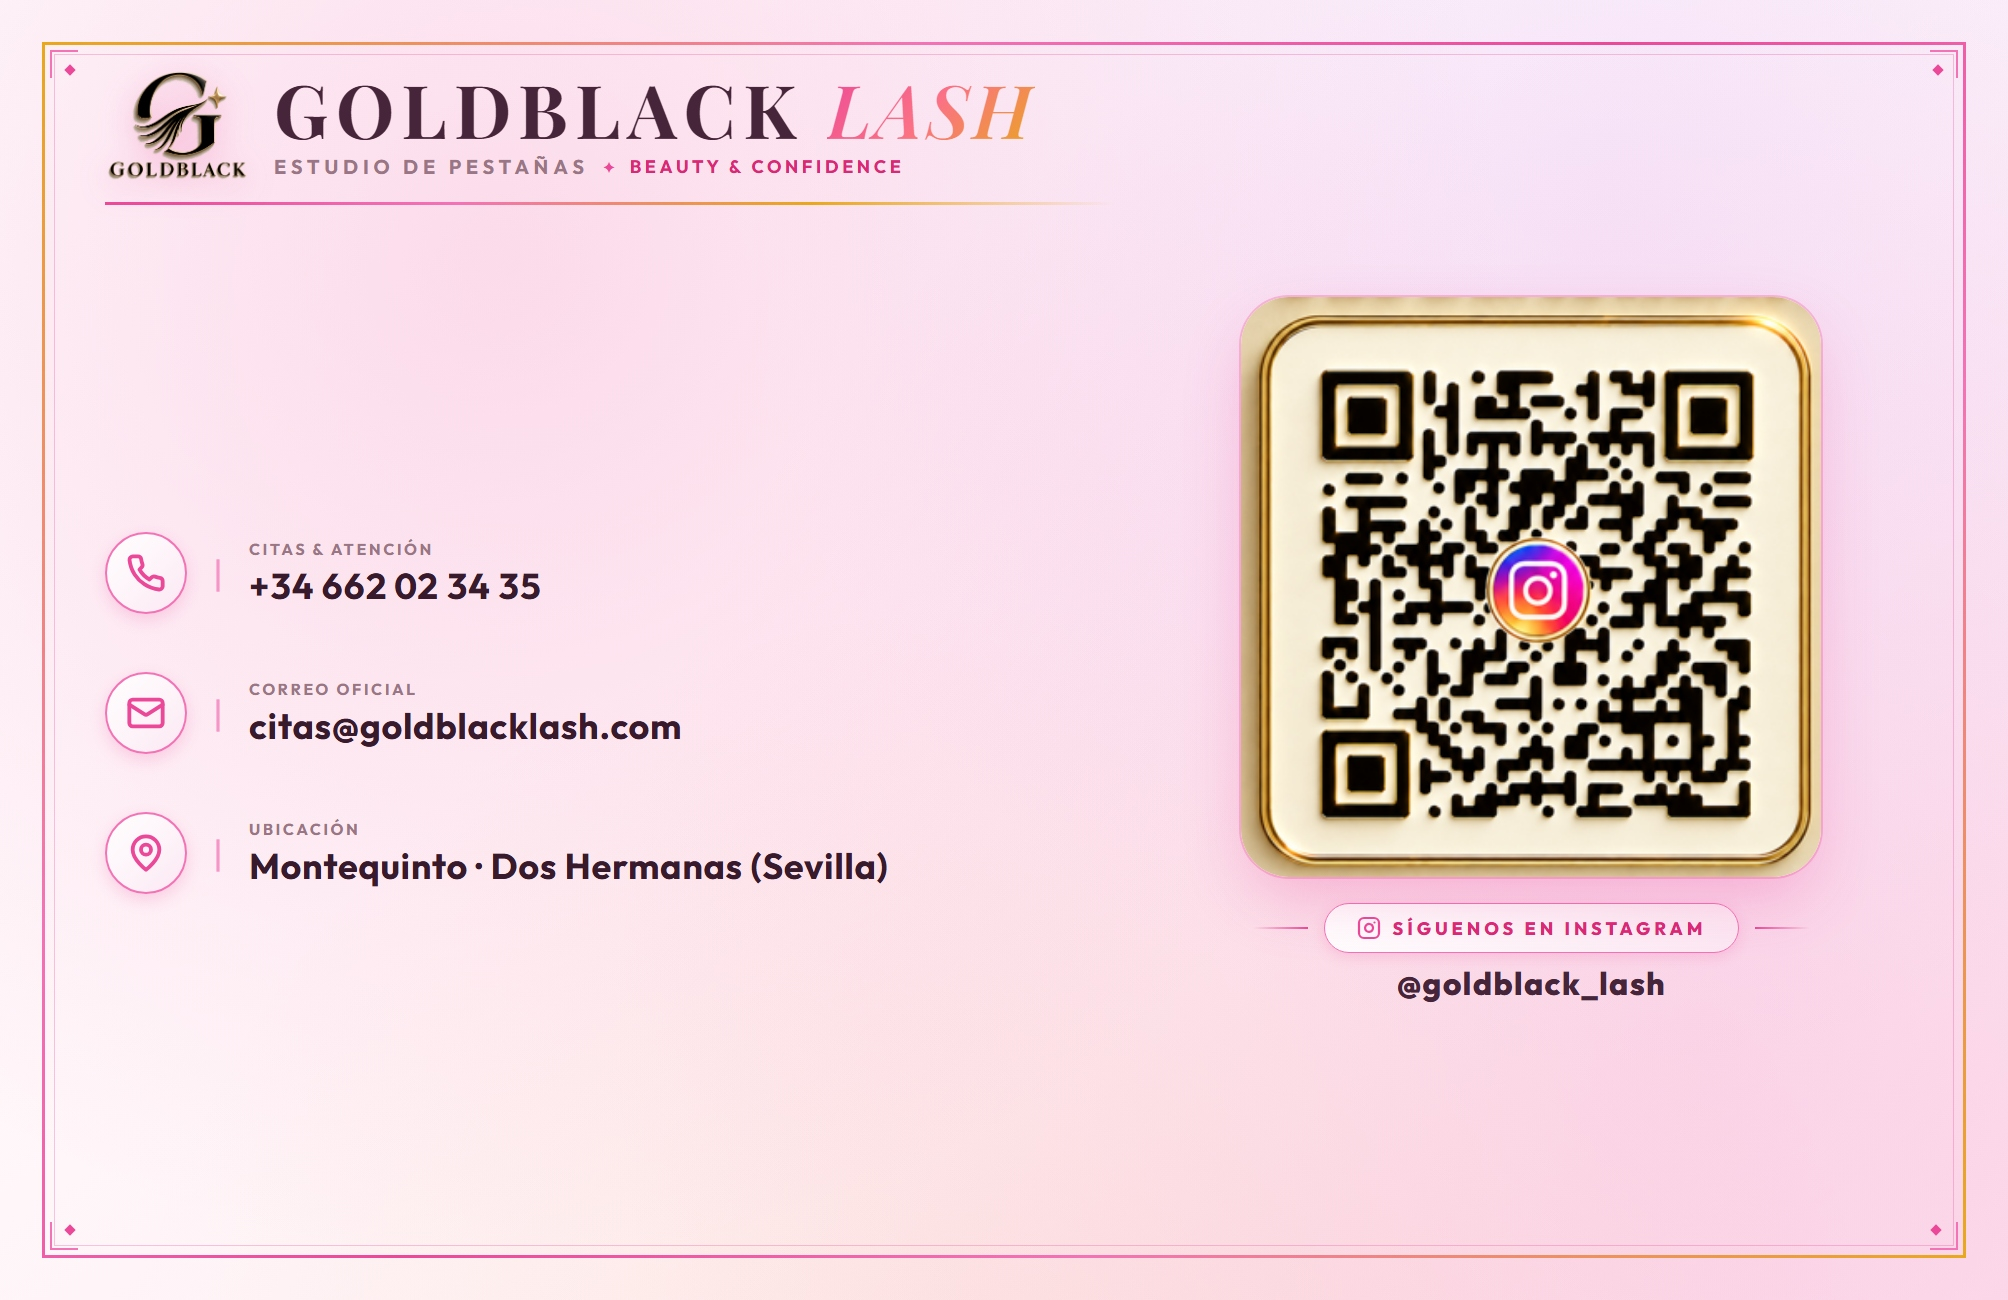
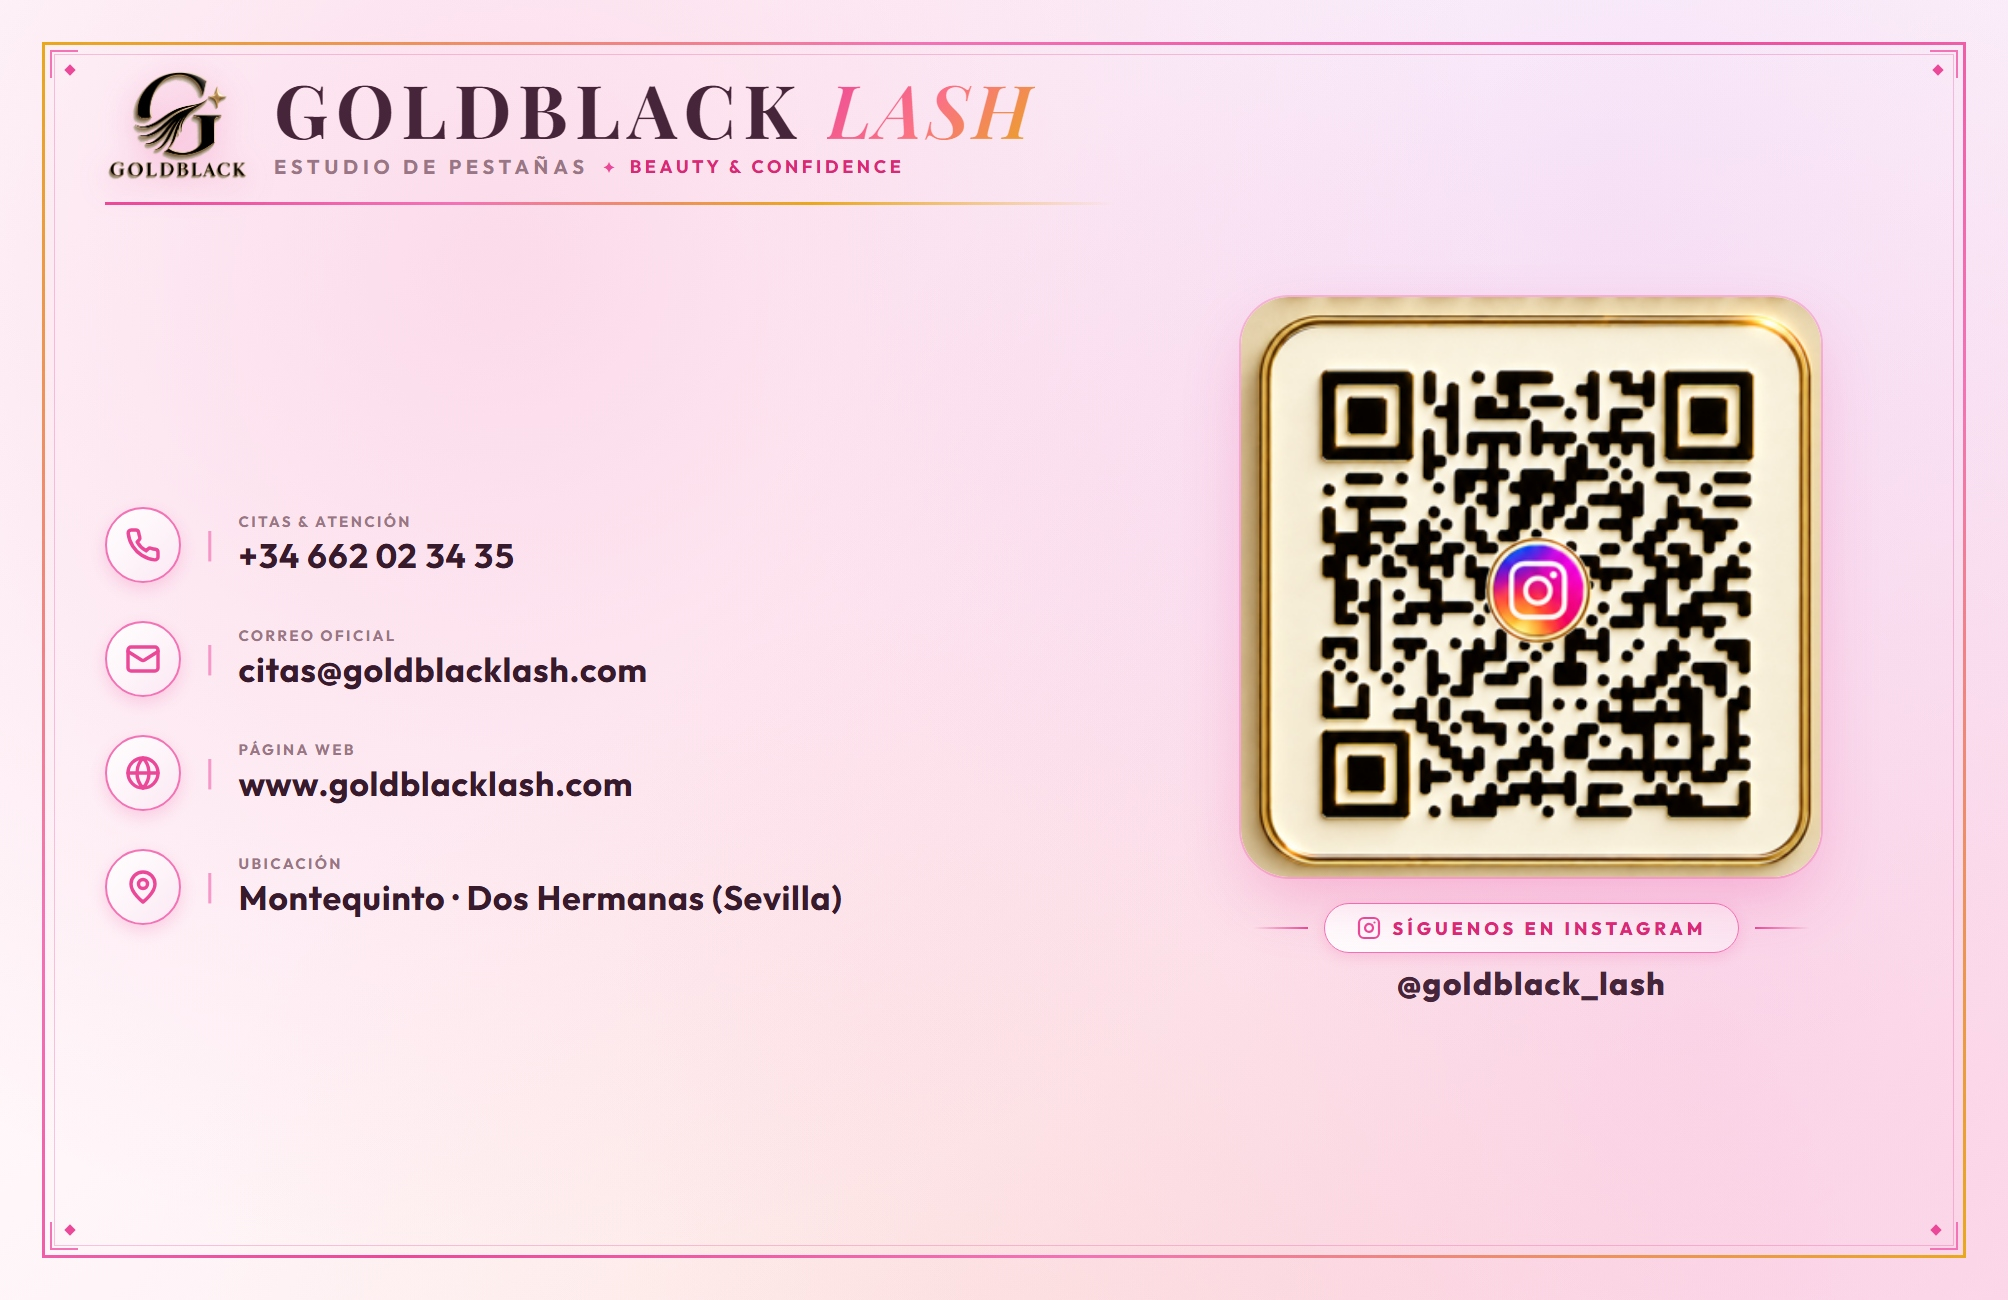
feat(branding): restore website URL to card front and back

Changed region(s): [[0.0309, 0.4, 0.4631, 0.7077]]

diff --git a/src/routes/tarjeta.tsx b/src/routes/tarjeta.tsx
@@ -194,6 +194,18 @@ function BusinessCardPage() {
 
                       <div className="flex items-center gap-2">
                         <div className="w-5 h-5 sm:w-6 sm:h-6 rounded-full bg-white border border-[#F472B6] flex items-center justify-center text-[#EC4899] text-[9px] sm:text-[10px] shadow-xs shrink-0">
+                          🌐
+                        </div>
+                        <div className="flex flex-col leading-tight">
+                          <span className="text-[7px] uppercase font-bold text-[#9A7585] tracking-wider">Página Web</span>
+                          <span className="font-bold text-[#381A2D]">
+                            www.goldblacklash.com
+                          </span>
+                        </div>
+                      </div>
+
+                      <div className="flex items-center gap-2">
+                        <div className="w-5 h-5 sm:w-6 sm:h-6 rounded-full bg-white border border-[#F472B6] flex items-center justify-center text-[#EC4899] text-[9px] sm:text-[10px] shadow-xs shrink-0">
                           📍
                         </div>
                         <div className="flex flex-col leading-tight">
@@ -258,7 +270,7 @@ function BusinessCardPage() {
                   </span>
 
                   <p className="text-[8px] sm:text-[9px] font-semibold text-[#9A7585] uppercase tracking-wider mt-1.5">
-                    Citas exclusivas bajo reserva
+                    Citas exclusivas bajo reserva · www.goldblacklash.com
                   </p>
                 </div>
               )

diff --git a/tools/generate_cards.py b/tools/generate_cards.py
@@ -205,25 +205,25 @@ front_html = f'''<!DOCTYPE html>
     margin-top: 6px;
   }}
 
-  /* Lista de contactos en tono rosa y plum de la web (3 items) */
+  /* Lista de contactos en tono rosa y plum de la web (4 items) */
   .contact-list {{
     flex: 1;
     display: flex;
     flex-direction: column;
     justify-content: center;
-    gap: 58px;
-    padding: 10px 0 20px 0;
+    gap: 38px;
+    padding: 10px 0 15px 0;
   }}
 
   .contact-item {{
     display: flex;
     align-items: center;
-    gap: 26px;
+    gap: 24px;
   }}
 
   .contact-icon-box {{
-    width: 82px;
-    height: 82px;
+    width: 76px;
+    height: 76px;
     border-radius: 50%;
     background: linear-gradient(135deg, #FFFFFF 0%, #FDF2F8 60%, #FCE7F3 100%);
     border: 2px solid #F472B6;
@@ -235,13 +235,13 @@ front_html = f'''<!DOCTYPE html>
   }}
 
   .contact-icon-box svg {{
-    width: 40px;
-    height: 40px;
+    width: 36px;
+    height: 36px;
     color: #EC4899;
   }}
 
   .contact-sep {{
-    font-size: 36px;
+    font-size: 34px;
     color: #F472B6;
     font-weight: 300;
     opacity: 0.7;
@@ -250,11 +250,11 @@ front_html = f'''<!DOCTYPE html>
   .contact-content {{
     display: flex;
     flex-direction: column;
-    gap: 4px;
+    gap: 3px;
   }}
 
   .contact-label {{
-    font-size: 16px;
+    font-size: 15px;
     font-weight: 700;
     color: #9A7585;
     text-transform: uppercase;
@@ -262,7 +262,7 @@ front_html = f'''<!DOCTYPE html>
   }}
 
   .contact-value {{
-    font-size: 36px;
+    font-size: 34px;
     font-weight: 700;
     letter-spacing: 0.02em;
     color: #381A2D;
@@ -415,6 +415,22 @@ front_html = f'''<!DOCTYPE html>
           <div class="contact-content">
             <span class="contact-label">Correo Oficial</span>
             <span class="contact-value">citas@goldblacklash.com</span>
+          </div>
+        </div>
+
+        <!-- Página Web -->
+        <div class="contact-item">
+          <div class="contact-icon-box">
+            <svg viewBox="0 0 24 24" fill="none" stroke="currentColor" stroke-width="2.3" stroke-linecap="round" stroke-linejoin="round">
+              <circle cx="12" cy="12" r="10"/>
+              <path d="M12 2a14.5 14.5 0 0 0 0 20 14.5 14.5 0 0 0 0-20"/>
+              <path d="M2 12h20"/>
+            </svg>
+          </div>
+          <span class="contact-sep">|</span>
+          <div class="contact-content">
+            <span class="contact-label">Página Web</span>
+            <span class="contact-value">www.goldblacklash.com</span>
           </div>
         </div>
 
@@ -675,7 +691,7 @@ back_html = f'''<!DOCTYPE html>
       <span class="badge-studio">Dos Hermanas · Montequinto, Sevilla</span>
     </div>
 
-    <p class="footer-reverso">Citas exclusivas bajo reserva</p>
+    <p class="footer-reverso">Citas exclusivas bajo reserva · www.goldblacklash.com</p>
   </div>
 </body>
 </html>'''
